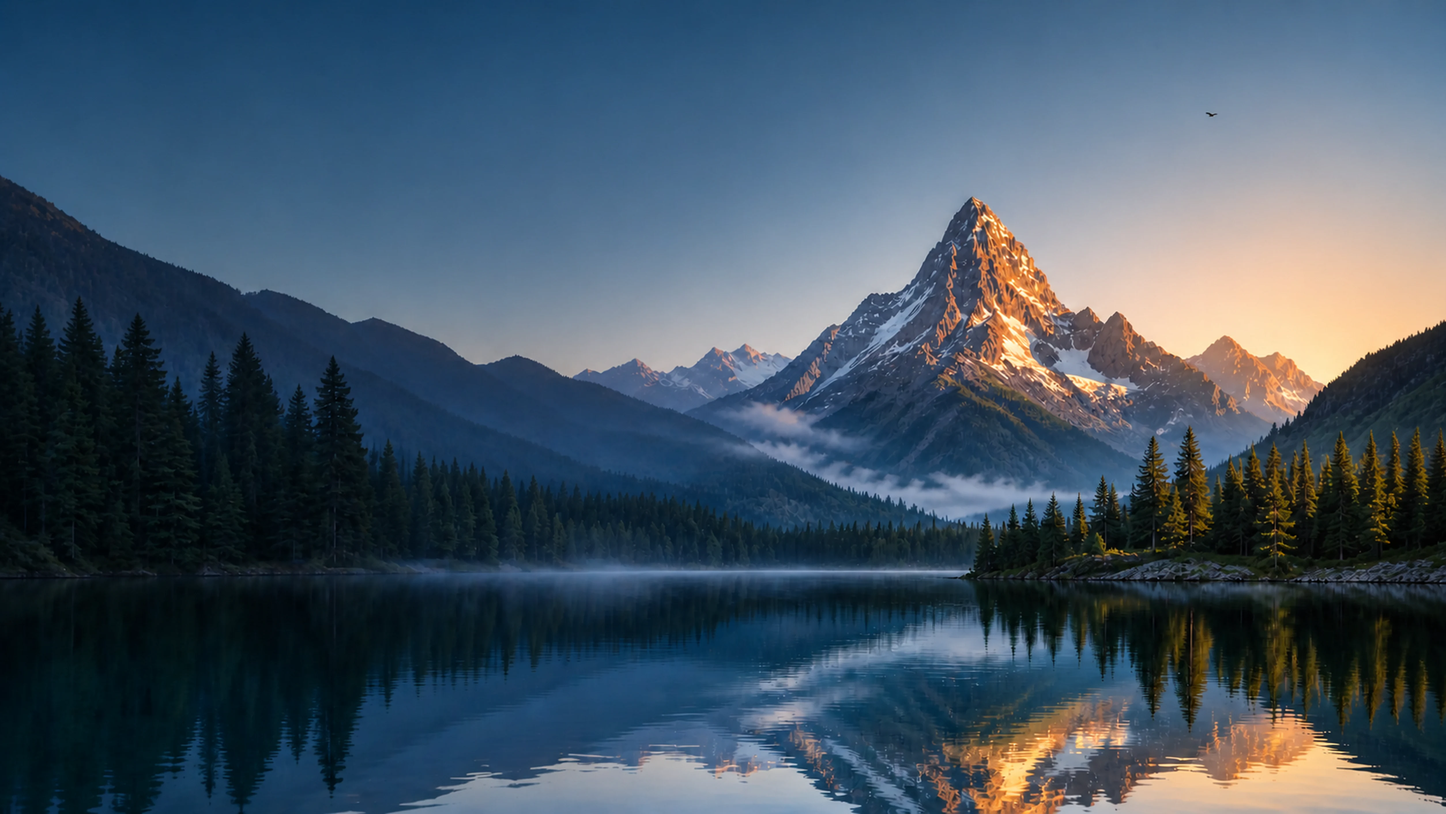
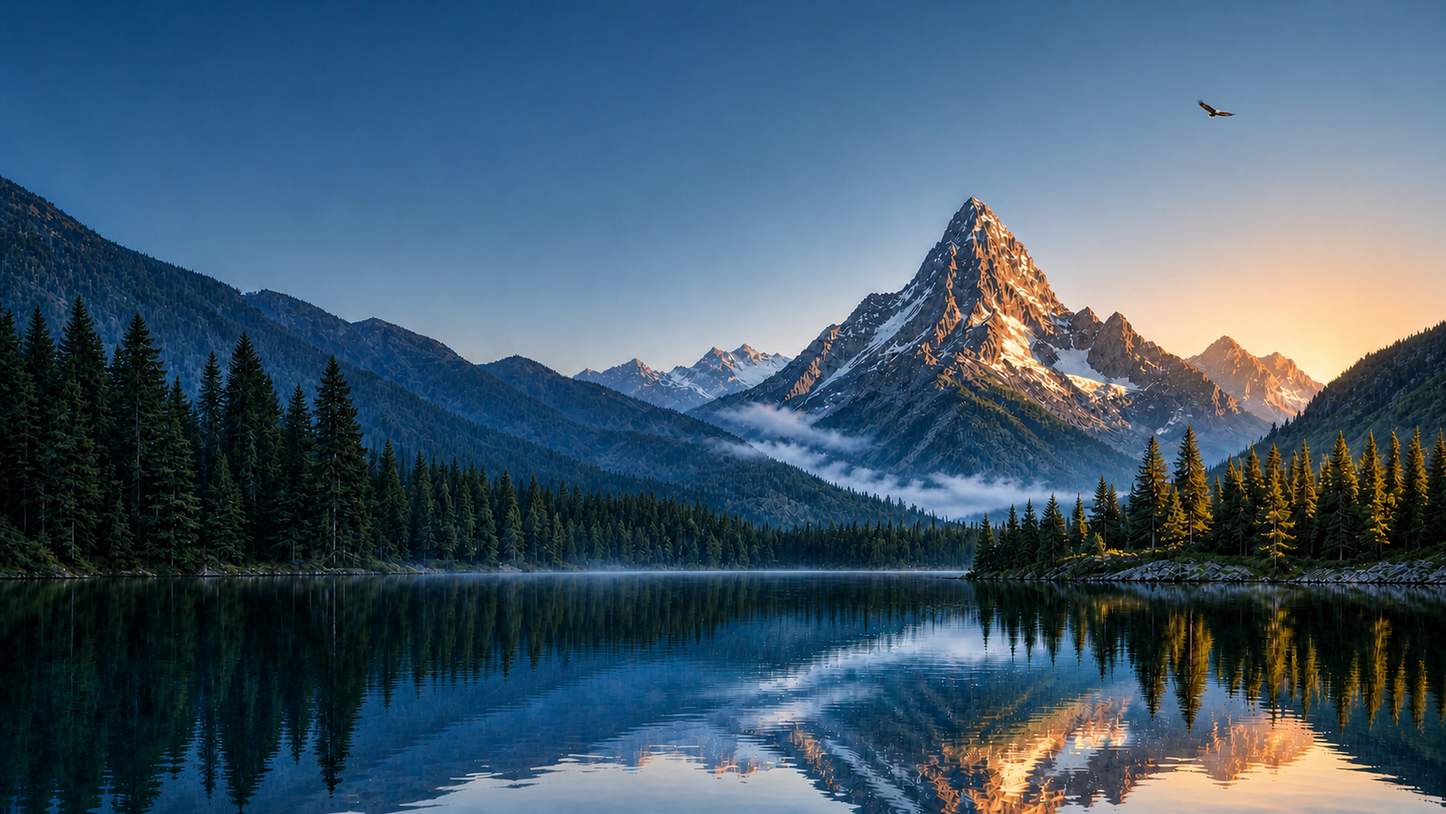
Sharpen hero artwork and refine desktop crop

diff --git a/styles.css b/styles.css
@@ -5653,10 +5653,10 @@ summary:focus-visible {
   text-align: left;
   isolation: isolate;
   /* Keep a plain 1x URL fallback before the density-aware image-set(). */
-  background-image: url('assets/oak-emr-mountain-hero.webp');
+  background-image: url('assets/oak-emr-mountain-hero.webp?v=hero-crisp-20260828');
   background-image: image-set(
-    url('assets/oak-emr-mountain-hero.webp') 1x,
-    url('assets/oak-emr-mountain-hero-retina.webp') 2x
+    url('assets/oak-emr-mountain-hero.webp?v=hero-crisp-20260828') 1x,
+    url('assets/oak-emr-mountain-hero-retina.webp?v=hero-crisp-20260828') 2x
   );
   background-position: center 20%;
   background-size: cover;
@@ -5687,6 +5687,22 @@ summary:focus-visible {
   line-height: 0.98;
   letter-spacing: -0.07em;
   word-spacing: normal;
+}
+
+/* Keep the summit just below the hero edge through the width-driven desktop range. */
+@media (min-width: 1051px) and (max-width: 1674px) {
+  .hero.home-hero {
+    background-position: center bottom;
+    background-size: auto 124%;
+  }
+}
+
+/* At ultra-wide widths, cover the hero and anchor the summit to a 48px breathing room. */
+@media (min-width: 1675px) {
+  .hero.home-hero {
+    background-position: center calc(48px - 13.58vw);
+    background-size: cover;
+  }
 }
 
 @media (max-width: 1050px) {

diff --git a/index.html b/index.html
@@ -24,7 +24,7 @@
     <meta name="twitter:image:alt" content="Mountain landscape representing a calmer, connected medical practice workflow" />
     <link rel="icon" href="assets/logo.svg" type="image/svg+xml" />
 
-    <link rel="stylesheet" href="styles.css?v=oak-emr-20260828-hero-hq" />
+    <link rel="stylesheet" href="styles.css?v=oak-emr-20260828-hero-crisp" />
     <link rel="preconnect" href="https://fonts.googleapis.com">
     <link rel="preconnect" href="https://fonts.gstatic.com" crossorigin>
     <link href="https://fonts.googleapis.com/css2?family=Fraunces:opsz,wght@9..144,500;9..144,700;9..144,850&family=Plus+Jakarta+Sans:wght@400;500;600;700;800&display=swap" rel="stylesheet">
